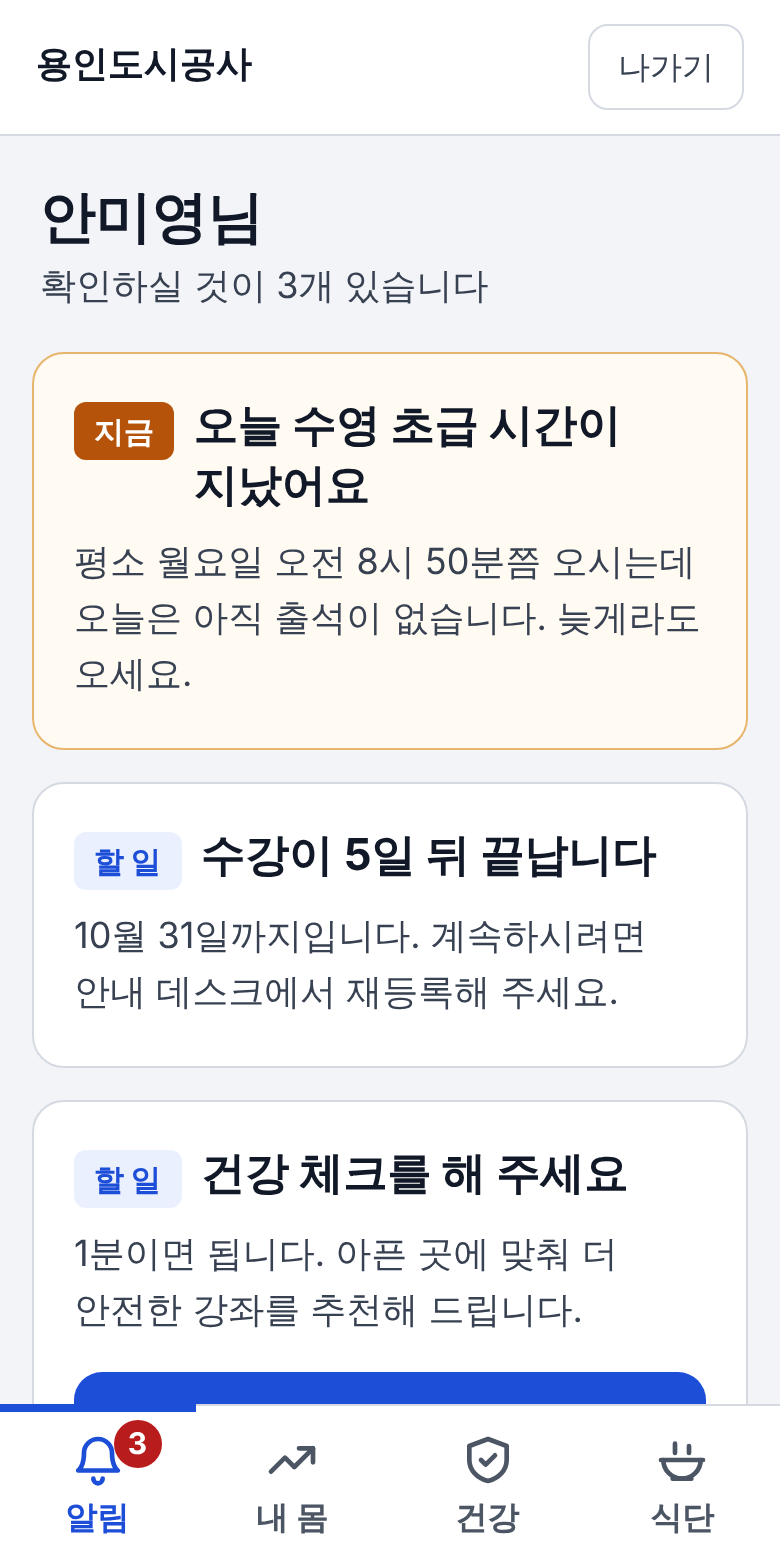
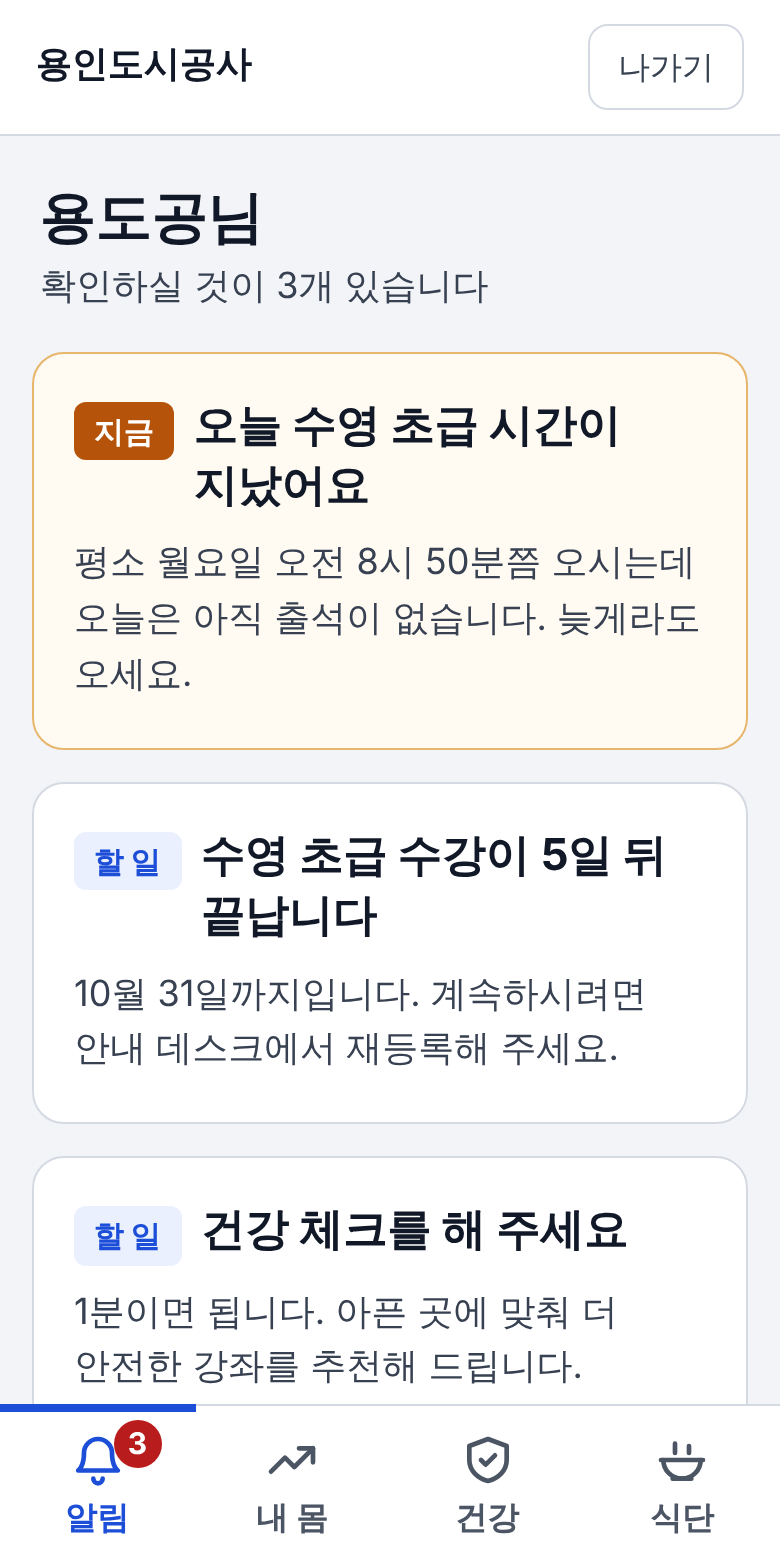
예시 회원 이름 용도공

diff --git a/member-M007-tab-sent.html b/member-M007-tab-sent.html
@@ -44,7 +44,7 @@
 
 <meta charset="utf-8">
 <meta name="viewport" content="width=device-width, initial-scale=1">
-<title>안미영 · 회원 정보</title>
+<title>용도공 · 회원 정보</title>
 <link rel="stylesheet" href="static/style.css">
 </head>
 <body>
@@ -117,7 +117,7 @@
     
     
 <div class="topline">
-  <h1>안미영</h1><span class="sub">M007 · 수강 중</span>
+  <h1>용도공</h1><span class="sub">M007 · 수강 중</span>
   <div class="right">
     <a class="btn sm" href="member-M007-report.html"><svg class="ic "><use href="#i-trend"/></svg> 건강 리포트</a>
     <a class="btn sm" href="member-M007-diet.html"><svg class="ic "><use href="#i-bowl"/></svg> 식단</a>
@@ -133,7 +133,7 @@
     <div class="hd"><svg class="ic "><use href="#i-user"/></svg> 기본정보</div>
     <div class="kv">
       <div class="k">회원번호</div><div class="v num">M007</div>
-      <div class="k">회원 이름</div><div class="v">안미영</div>
+      <div class="k">회원 이름</div><div class="v">용도공</div>
       <div class="k">성별 · 나이</div><div class="v">여 · 54세</div>
       <div class="k">키</div><div class="v">162 cm</div>
       <div class="k">휴대전화</div><div class="v num">010-****-6233</div>
@@ -170,11 +170,11 @@
   
   <table>
     <thead><tr><th>보낼 문자</th><th>받는 사람</th><th>내용</th></tr></thead>
-    <tbody><tr><td>오늘 미출석 알림</td><td>안미영</td>
-      <td style="white-space:normal" class="sub">안미영님, 용인도시공사입니다. 평소 오전 8시 50분쯤 수영 초급에 오시는데 오늘은 아직 안 오셔서 안부 여쭙니다. 늦게라도 오시면 반갑게 맞이하겠습니다.</td></tr><tr><td>재등록 안내</td><td>안미영</td>
-      <td style="white-space:normal" class="sub">안미영님, 용인도시공사입니다. 수영 초급 수강이 2026-10-31에 끝납니다. 다음 달도 이어서 하시려면 종료일 전에 재등록해 주세요.</td></tr><tr><td>건강 체크 요청</td><td>안미영</td>
-      <td style="white-space:normal" class="sub">안미영님, 용인도시공사입니다. 수영 초급 수업을 안전하게 추천해 드리기 위해 운동 전 건강 체크가 필요합니다. 방문하실 때 안내 데스크에서 1분이면 작성하실 수 있습니다.</td></tr><tr><td>안부 확인 안내</td><td>안미영</td>
-      <td style="white-space:normal" class="sub">안미영님, 용인도시공사입니다. 수영 초급 수업에 평소 오시던 시간에 여러 번 안 오시면 안부를 여쭙고, 등록하신 보호자께 알려 드리는 &#39;안부 확인&#39;을 해 드립니다. 출석 기록만 쓰고 건강 정보는 쓰지 않습니다. 내용 확인과 받기·그만 받기는 여기서 하실 수 있습니다: http://localhost/my/care/link/Ik0wMDci.5v-3TDytN6Ye-HO4J-zeULhRoY8</td></tr></tbody>
+    <tbody><tr><td>오늘 미출석 알림</td><td>용도공</td>
+      <td style="white-space:normal" class="sub">용도공님, 용인도시공사입니다. 평소 오전 8시 50분쯤 수영 초급에 오시는데 오늘은 아직 안 오셔서 안부 여쭙니다. 늦게라도 오시면 반갑게 맞이하겠습니다.</td></tr><tr><td>재등록 안내</td><td>용도공</td>
+      <td style="white-space:normal" class="sub">용도공님, 용인도시공사입니다. 수영 초급 수강이 2026-10-31에 끝납니다. 다음 달도 이어서 하시려면 종료일 전에 재등록해 주세요.</td></tr><tr><td>건강 체크 요청</td><td>용도공</td>
+      <td style="white-space:normal" class="sub">용도공님, 용인도시공사입니다. 수영 초급 수업을 안전하게 추천해 드리기 위해 운동 전 건강 체크가 필요합니다. 방문하실 때 안내 데스크에서 1분이면 작성하실 수 있습니다.</td></tr><tr><td>안부 확인 안내</td><td>용도공</td>
+      <td style="white-space:normal" class="sub">용도공님, 용인도시공사입니다. 수영 초급 수업에 평소 오시던 시간에 여러 번 안 오시면 안부를 여쭙고, 등록하신 보호자께 알려 드리는 &#39;안부 확인&#39;을 해 드립니다. 출석 기록만 쓰고 건강 정보는 쓰지 않습니다. 내용 확인과 받기·그만 받기는 여기서 하실 수 있습니다: http://localhost/my/care/link/Ik0wMDci.5v-3TDytN6Ye-HO4J-zeULhRoY8</td></tr></tbody>
   </table>
   
   <table>

diff --git a/sources.html b/sources.html
@@ -139,7 +139,7 @@
     <div class="ico"><svg class="ic lg"><use href="#i-users"/></svg></div>
     <div>
       <h3>회원관리프로그램 <span class="badge ok">연결</span></h3>
-      <div class="method">내보내기 파일(CSV) · API 연동 가능 구조 · 갱신 2026-10-14 04:46</div>
+      <div class="method">내보내기 파일(CSV) · API 연동 가능 구조 · 갱신 2026-10-14 05:48</div>
       <table>
         <thead><tr><th>자료</th><th class="r">건수</th></tr></thead>
         <tbody>
@@ -246,7 +246,7 @@
           
         </div>
       </div>
-      <div class="sub" style="margin-top:10px">그래디언트 부스팅(scikit-learn) 두 개: ① 오늘 올 확률 ② 도착 시각의 90% 지점(분위 회귀). 특징은 그 요일·강좌 출석률(최근일수록 무겁게), 연속 결석, 마지막 출석 후 날수, 평소 시각과 들쭉날쭉함, 요일·월, 나이, 날씨(최저·최고·강수·적설·도착 전 3시간 강수), 시설 전체 출석 흐름. 결석은 규칙과 똑같이 모두 알리고, 모델은 언제 알릴지를 정합니다. 학습 2026-10-14 05:28.</div>
+      <div class="sub" style="margin-top:10px">그래디언트 부스팅(scikit-learn) 두 개: ① 오늘 올 확률 ② 도착 시각의 90% 지점(분위 회귀). 특징은 그 요일·강좌 출석률(최근일수록 무겁게), 연속 결석, 마지막 출석 후 날수, 평소 시각과 들쭉날쭉함, 요일·월, 나이, 날씨(최저·최고·강수·적설·도착 전 3시간 강수), 시설 전체 출석 흐름. 결석은 규칙과 똑같이 모두 알리고, 모델은 언제 알릴지를 정합니다. 학습 2026-10-14 05:50.</div>
       
     </div>
   </div>

diff --git a/member-M007-tab-enroll.html b/member-M007-tab-enroll.html
@@ -44,7 +44,7 @@
 
 <meta charset="utf-8">
 <meta name="viewport" content="width=device-width, initial-scale=1">
-<title>안미영 · 회원 정보</title>
+<title>용도공 · 회원 정보</title>
 <link rel="stylesheet" href="static/style.css">
 </head>
 <body>
@@ -117,7 +117,7 @@
     
     
 <div class="topline">
-  <h1>안미영</h1><span class="sub">M007 · 수강 중</span>
+  <h1>용도공</h1><span class="sub">M007 · 수강 중</span>
   <div class="right">
     <a class="btn sm" href="member-M007-report.html"><svg class="ic "><use href="#i-trend"/></svg> 건강 리포트</a>
     <a class="btn sm" href="member-M007-diet.html"><svg class="ic "><use href="#i-bowl"/></svg> 식단</a>
@@ -133,7 +133,7 @@
     <div class="hd"><svg class="ic "><use href="#i-user"/></svg> 기본정보</div>
     <div class="kv">
       <div class="k">회원번호</div><div class="v num">M007</div>
-      <div class="k">회원 이름</div><div class="v">안미영</div>
+      <div class="k">회원 이름</div><div class="v">용도공</div>
       <div class="k">성별 · 나이</div><div class="v">여 · 54세</div>
       <div class="k">키</div><div class="v">162 cm</div>
       <div class="k">휴대전화</div><div class="v num">010-****-6233</div>

diff --git a/member-M007-tab-guardian.html b/member-M007-tab-guardian.html
@@ -44,7 +44,7 @@
 
 <meta charset="utf-8">
 <meta name="viewport" content="width=device-width, initial-scale=1">
-<title>안미영 · 회원 정보</title>
+<title>용도공 · 회원 정보</title>
 <link rel="stylesheet" href="static/style.css">
 </head>
 <body>
@@ -117,7 +117,7 @@
     
     
 <div class="topline">
-  <h1>안미영</h1><span class="sub">M007 · 수강 중</span>
+  <h1>용도공</h1><span class="sub">M007 · 수강 중</span>
   <div class="right">
     <a class="btn sm" href="member-M007-report.html"><svg class="ic "><use href="#i-trend"/></svg> 건강 리포트</a>
     <a class="btn sm" href="member-M007-diet.html"><svg class="ic "><use href="#i-bowl"/></svg> 식단</a>
@@ -133,7 +133,7 @@
     <div class="hd"><svg class="ic "><use href="#i-user"/></svg> 기본정보</div>
     <div class="kv">
       <div class="k">회원번호</div><div class="v num">M007</div>
-      <div class="k">회원 이름</div><div class="v">안미영</div>
+      <div class="k">회원 이름</div><div class="v">용도공</div>
       <div class="k">성별 · 나이</div><div class="v">여 · 54세</div>
       <div class="k">키</div><div class="v">162 cm</div>
       <div class="k">휴대전화</div><div class="v num">010-****-6233</div>

diff --git a/member-M007-tab-visits-month-2026-08.html b/member-M007-tab-visits-month-2026-08.html
@@ -44,7 +44,7 @@
 
 <meta charset="utf-8">
 <meta name="viewport" content="width=device-width, initial-scale=1">
-<title>안미영 · 회원 정보</title>
+<title>용도공 · 회원 정보</title>
 <link rel="stylesheet" href="static/style.css">
 </head>
 <body>
@@ -117,7 +117,7 @@
     
     
 <div class="topline">
-  <h1>안미영</h1><span class="sub">M007 · 수강 중</span>
+  <h1>용도공</h1><span class="sub">M007 · 수강 중</span>
   <div class="right">
     <a class="btn sm" href="member-M007-report.html"><svg class="ic "><use href="#i-trend"/></svg> 건강 리포트</a>
     <a class="btn sm" href="member-M007-diet.html"><svg class="ic "><use href="#i-bowl"/></svg> 식단</a>
@@ -133,7 +133,7 @@
     <div class="hd"><svg class="ic "><use href="#i-user"/></svg> 기본정보</div>
     <div class="kv">
       <div class="k">회원번호</div><div class="v num">M007</div>
-      <div class="k">회원 이름</div><div class="v">안미영</div>
+      <div class="k">회원 이름</div><div class="v">용도공</div>
       <div class="k">성별 · 나이</div><div class="v">여 · 54세</div>
       <div class="k">키</div><div class="v">162 cm</div>
       <div class="k">휴대전화</div><div class="v num">010-****-6233</div>

diff --git a/member-M007-tab-visits-month-2026-09.html b/member-M007-tab-visits-month-2026-09.html
@@ -44,7 +44,7 @@
 
 <meta charset="utf-8">
 <meta name="viewport" content="width=device-width, initial-scale=1">
-<title>안미영 · 회원 정보</title>
+<title>용도공 · 회원 정보</title>
 <link rel="stylesheet" href="static/style.css">
 </head>
 <body>
@@ -117,7 +117,7 @@
     
     
 <div class="topline">
-  <h1>안미영</h1><span class="sub">M007 · 수강 중</span>
+  <h1>용도공</h1><span class="sub">M007 · 수강 중</span>
   <div class="right">
     <a class="btn sm" href="member-M007-report.html"><svg class="ic "><use href="#i-trend"/></svg> 건강 리포트</a>
     <a class="btn sm" href="member-M007-diet.html"><svg class="ic "><use href="#i-bowl"/></svg> 식단</a>
@@ -133,7 +133,7 @@
     <div class="hd"><svg class="ic "><use href="#i-user"/></svg> 기본정보</div>
     <div class="kv">
       <div class="k">회원번호</div><div class="v num">M007</div>
-      <div class="k">회원 이름</div><div class="v">안미영</div>
+      <div class="k">회원 이름</div><div class="v">용도공</div>
       <div class="k">성별 · 나이</div><div class="v">여 · 54세</div>
       <div class="k">키</div><div class="v">162 cm</div>
       <div class="k">휴대전화</div><div class="v num">010-****-6233</div>

diff --git a/member-M007-tab-visits-month-2026-10.html b/member-M007-tab-visits-month-2026-10.html
@@ -44,7 +44,7 @@
 
 <meta charset="utf-8">
 <meta name="viewport" content="width=device-width, initial-scale=1">
-<title>안미영 · 회원 정보</title>
+<title>용도공 · 회원 정보</title>
 <link rel="stylesheet" href="static/style.css">
 </head>
 <body>
@@ -117,7 +117,7 @@
     
     
 <div class="topline">
-  <h1>안미영</h1><span class="sub">M007 · 수강 중</span>
+  <h1>용도공</h1><span class="sub">M007 · 수강 중</span>
   <div class="right">
     <a class="btn sm" href="member-M007-report.html"><svg class="ic "><use href="#i-trend"/></svg> 건강 리포트</a>
     <a class="btn sm" href="member-M007-diet.html"><svg class="ic "><use href="#i-bowl"/></svg> 식단</a>
@@ -133,7 +133,7 @@
     <div class="hd"><svg class="ic "><use href="#i-user"/></svg> 기본정보</div>
     <div class="kv">
       <div class="k">회원번호</div><div class="v num">M007</div>
-      <div class="k">회원 이름</div><div class="v">안미영</div>
+      <div class="k">회원 이름</div><div class="v">용도공</div>
       <div class="k">성별 · 나이</div><div class="v">여 · 54세</div>
       <div class="k">키</div><div class="v">162 cm</div>
       <div class="k">휴대전화</div><div class="v num">010-****-6233</div>

diff --git a/member-M007-tab-visits.html b/member-M007-tab-visits.html
@@ -44,7 +44,7 @@
 
 <meta charset="utf-8">
 <meta name="viewport" content="width=device-width, initial-scale=1">
-<title>안미영 · 회원 정보</title>
+<title>용도공 · 회원 정보</title>
 <link rel="stylesheet" href="static/style.css">
 </head>
 <body>
@@ -117,7 +117,7 @@
     
     
 <div class="topline">
-  <h1>안미영</h1><span class="sub">M007 · 수강 중</span>
+  <h1>용도공</h1><span class="sub">M007 · 수강 중</span>
   <div class="right">
     <a class="btn sm" href="member-M007-report.html"><svg class="ic "><use href="#i-trend"/></svg> 건강 리포트</a>
     <a class="btn sm" href="member-M007-diet.html"><svg class="ic "><use href="#i-bowl"/></svg> 식단</a>
@@ -133,7 +133,7 @@
     <div class="hd"><svg class="ic "><use href="#i-user"/></svg> 기본정보</div>
     <div class="kv">
       <div class="k">회원번호</div><div class="v num">M007</div>
-      <div class="k">회원 이름</div><div class="v">안미영</div>
+      <div class="k">회원 이름</div><div class="v">용도공</div>
       <div class="k">성별 · 나이</div><div class="v">여 · 54세</div>
       <div class="k">키</div><div class="v">162 cm</div>
       <div class="k">휴대전화</div><div class="v num">010-****-6233</div>

diff --git a/member-M007.html b/member-M007.html
@@ -44,7 +44,7 @@
 
 <meta charset="utf-8">
 <meta name="viewport" content="width=device-width, initial-scale=1">
-<title>안미영 · 회원 정보</title>
+<title>용도공 · 회원 정보</title>
 <link rel="stylesheet" href="static/style.css">
 </head>
 <body>
@@ -117,7 +117,7 @@
     
     
 <div class="topline">
-  <h1>안미영</h1><span class="sub">M007 · 수강 중</span>
+  <h1>용도공</h1><span class="sub">M007 · 수강 중</span>
   <div class="right">
     <a class="btn sm" href="member-M007-report.html"><svg class="ic "><use href="#i-trend"/></svg> 건강 리포트</a>
     <a class="btn sm" href="member-M007-diet.html"><svg class="ic "><use href="#i-bowl"/></svg> 식단</a>
@@ -133,7 +133,7 @@
     <div class="hd"><svg class="ic "><use href="#i-user"/></svg> 기본정보</div>
     <div class="kv">
       <div class="k">회원번호</div><div class="v num">M007</div>
-      <div class="k">회원 이름</div><div class="v">안미영</div>
+      <div class="k">회원 이름</div><div class="v">용도공</div>
       <div class="k">성별 · 나이</div><div class="v">여 · 54세</div>
       <div class="k">키</div><div class="v">162 cm</div>
       <div class="k">휴대전화</div><div class="v num">010-****-6233</div>

diff --git a/index.html b/index.html
@@ -236,7 +236,7 @@ footer a { color: var(--ink-2); }
       <div class="try"><table>
         <thead><tr><th>회원</th><th>번호 / 태어난 해</th><th>볼 것</th><th></th></tr></thead>
         <tbody>
-          <tr><td>안미영</td><td><code>M007 / 1972</code></td><td>평소 월요일 아침 수영. 오늘 시간이 지나 알림이 떠 있음</td><td><a href="my-M007.html">열기</a></td></tr>
+          <tr><td>용도공</td><td><code>M007 / 1972</code></td><td>평소 월요일 아침 수영. 오늘 시간이 지나 알림이 떠 있음</td><td><a href="my-M007.html">열기</a></td></tr>
           <tr><td>최성호</td><td><code>M051 / 1956</code></td><td>평소 오던 날 여러 번 연속 미출석. 보호자 등록과 안부 단계</td><td><a href="my-M051.html">열기</a></td></tr>
           <tr><td>황광수</td><td><code>M004 / 1974</code></td><td>30일 뒤 체지방률 4가지 경우, 지난 측정, 출석 달력, 추천 강좌</td><td><a href="my-M004-body.html">열기</a></td></tr>
           <tr><td>관리자</td><td>로그인 없음</td><td>장기 미출석 5명, 그중 보호자 없음 5명</td><td><a href="admin.html">열기</a></td></tr>

diff --git a/start.html b/start.html
@@ -236,7 +236,7 @@ footer a { color: var(--ink-2); }
       <div class="try"><table>
         <thead><tr><th>회원</th><th>번호 / 태어난 해</th><th>볼 것</th><th></th></tr></thead>
         <tbody>
-          <tr><td>안미영</td><td><code>M007 / 1972</code></td><td>평소 월요일 아침 수영. 오늘 시간이 지나 알림이 떠 있음</td><td><a href="my-M007.html">열기</a></td></tr>
+          <tr><td>용도공</td><td><code>M007 / 1972</code></td><td>평소 월요일 아침 수영. 오늘 시간이 지나 알림이 떠 있음</td><td><a href="my-M007.html">열기</a></td></tr>
           <tr><td>최성호</td><td><code>M051 / 1956</code></td><td>평소 오던 날 여러 번 연속 미출석. 보호자 등록과 안부 단계</td><td><a href="my-M051.html">열기</a></td></tr>
           <tr><td>황광수</td><td><code>M004 / 1974</code></td><td>30일 뒤 체지방률 4가지 경우, 지난 측정, 출석 달력, 추천 강좌</td><td><a href="my-M004-body.html">열기</a></td></tr>
           <tr><td>관리자</td><td>로그인 없음</td><td>장기 미출석 5명, 그중 보호자 없음 5명</td><td><a href="admin.html">열기</a></td></tr>

diff --git a/member-M007-diet.html b/member-M007-diet.html
@@ -44,7 +44,7 @@
 
 <meta charset="utf-8">
 <meta name="viewport" content="width=device-width, initial-scale=1">
-<title>안미영 · 식단 기록</title>
+<title>용도공 · 식단 기록</title>
 <link rel="stylesheet" href="static/style.css">
 </head>
 <body>
@@ -117,7 +117,7 @@
     
     
 <div class="topline">
-  <h1>안미영 · 식단 기록</h1><span class="sub">사진은 저장하지 않고 추정 결과만 남깁니다</span>
+  <h1>용도공 · 식단 기록</h1><span class="sub">사진은 저장하지 않고 추정 결과만 남깁니다</span>
   <div class="right"><a class="btn sm" href="member-M007-report.html"><svg class="ic "><use href="#i-back"/></svg> 리포트</a></div>
 </div>
 
